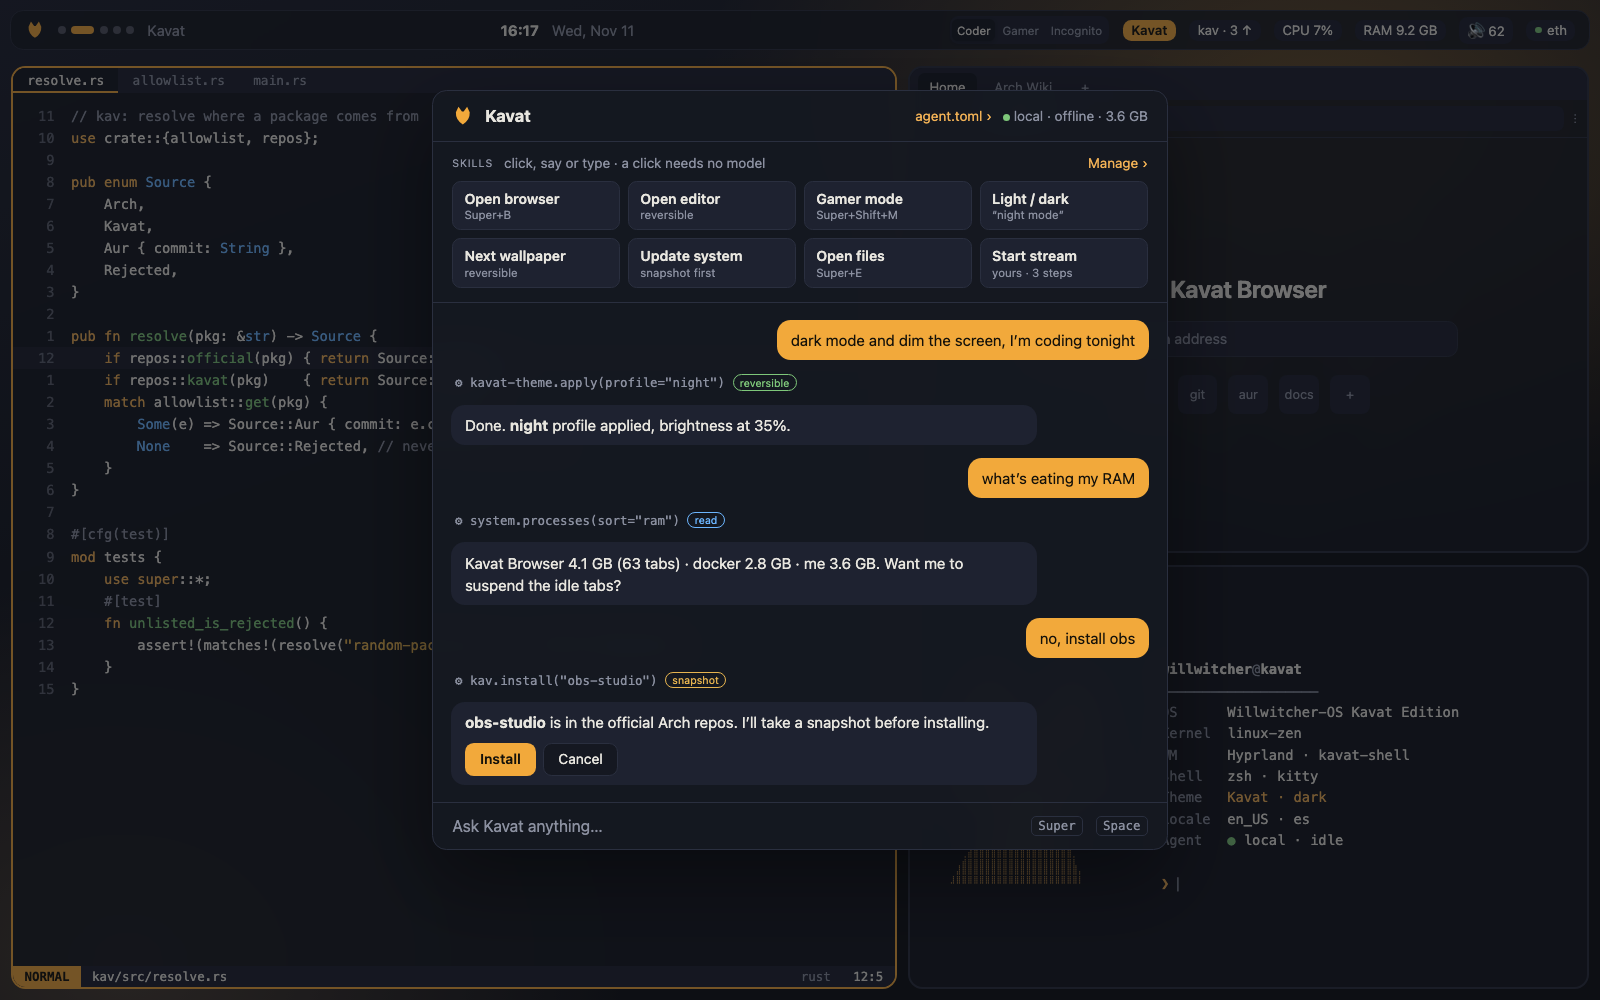
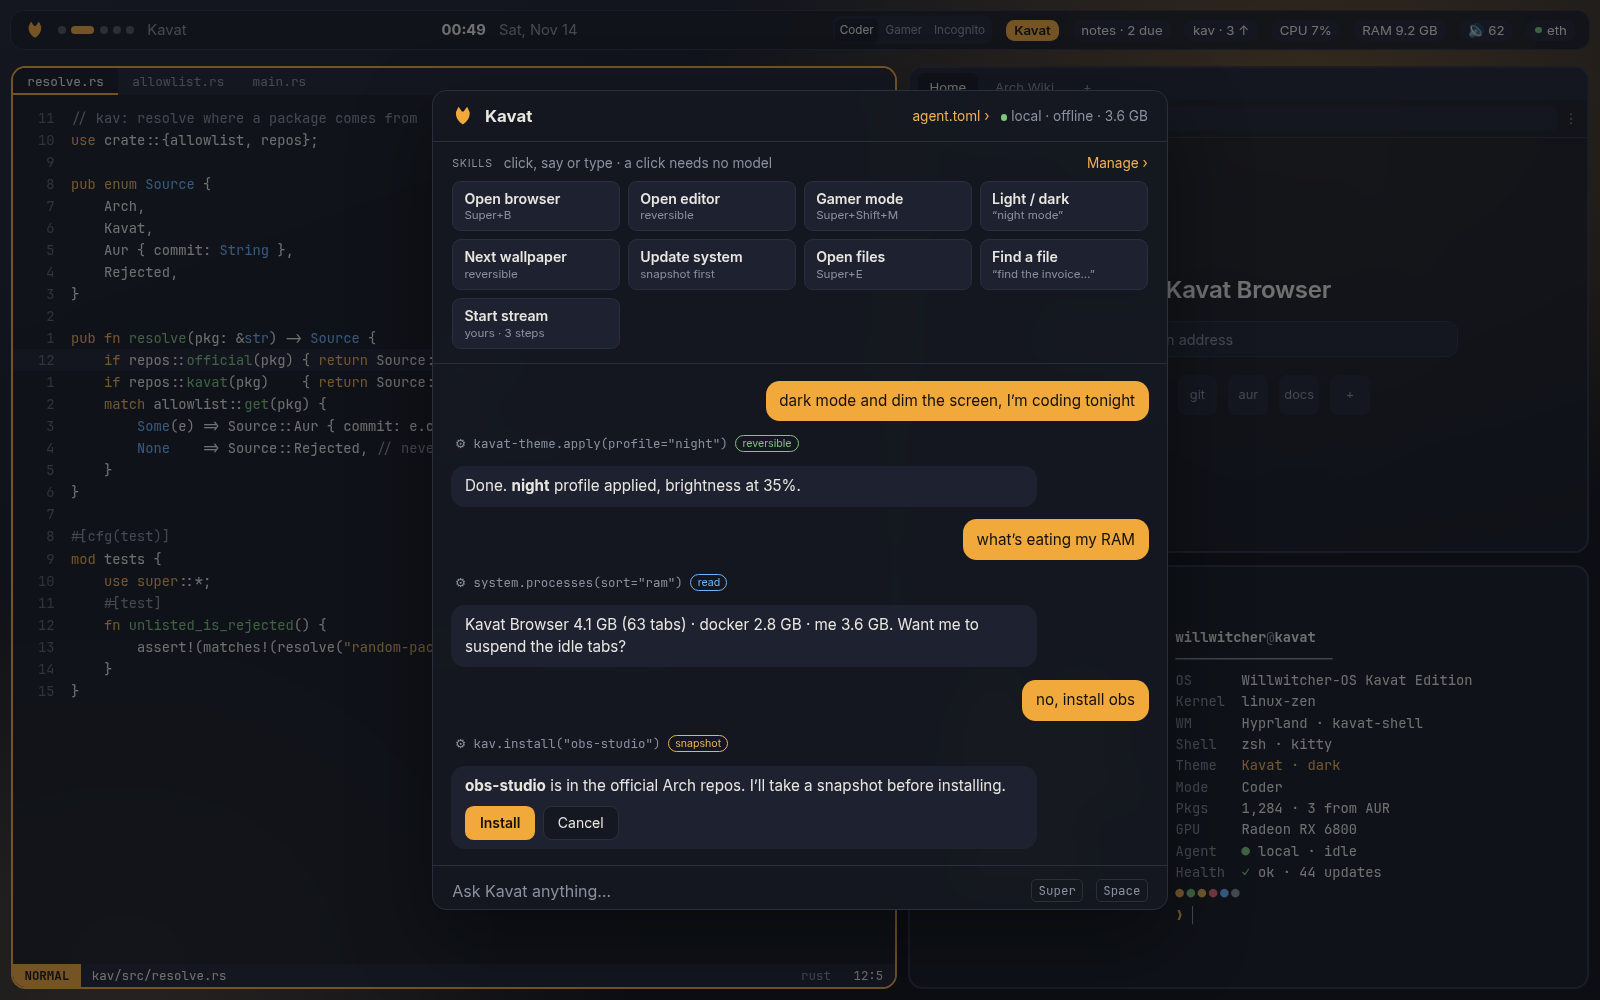
Design: Kavat finds a file when asked, drawn in the mockup
The agent's panel has a second conversation: it finds a file with files.find,
lists what matched and offers to open it, show it in Yazi or pass the list to
the search. The design names the tool and what kind of action each step is.

diff --git a/docs/mockup/index.html b/docs/mockup/index.html
@@ -99,6 +99,9 @@ button{font:inherit;color:inherit;background:none;border:0;cursor:pointer}
 .msg{max-width:84%;padding:.6em .9em;border-radius:var(--r);line-height:1.45}
 .msg.me{align-self:flex-end;background:var(--accent);color:#14110a}
 .msg.ai{background:var(--surface2)}
+.js-agfind{display:none}.screen[data-afind=true] .js-agfind{display:flex}.screen[data-afind=true] .js-agmain{display:none}
+.afiles{display:flex;flex-direction:column;gap:.25em;margin:.6em 0 .2em;font-family:var(--mono);font-size:.84em}
+.afile{display:flex;gap:1em;padding:.3em .6em;border-radius:calc(var(--r)*.5);background:var(--surface);border:.1em solid var(--border)}
 .tool{display:flex;align-items:center;gap:.6em;font-family:var(--mono);font-size:.82em;color:var(--muted);padding:.1em .3em}
 .badge{font-family:var(--ui);font-size:.85em;padding:.1em .6em;border-radius:1em;border:.1em solid currentColor}
 .btns{display:flex;gap:.5em;margin-top:.6em}
@@ -745,8 +748,19 @@ body.lit:not(.bare) .monitor{animation:lit 1.15s ease-in-out infinite alternate}
     <!-- agent -->
     <div class="ov glass" id="ov-agent">
       <div class="ag-head"><svg class="logo" viewBox="0 0 100 100" fill="currentColor"><path d="M18 34 L30 8 L46 30 H54 L70 8 L82 34 Q84 70 50 90 Q16 70 18 34Z"/></svg><b>Kavat</b><span class="sp"></span><span class="cfglink" data-cfg="agent">agent.toml ›</span><span class="muted" style="font-size:.85em"><span class="dot"></span> <span class="js-agstatus">local · offline · 3.6 GB</span></span></div>
-      <div class="skills"><div class="skh"><span class="sec" style="margin:0">Skills</span><span class="muted">click, say or type · a click needs no model</span><span class="sp"></span><span class="acc" data-act="skills" style="cursor:pointer">Manage ›</span></div><div class="skg"><button class="skill" data-act="browser"><b>Open browser</b><small>Super+B</small></button><button class="skill" data-act="editor"><b>Open editor</b><small>reversible</small></button><button class="skill" data-act="gamer"><b>Gamer mode</b><small>Super+Shift+M</small></button><button class="skill" data-act="mode"><b>Light / dark</b><small>“night mode”</small></button><button class="skill" data-act="wall"><b>Next wallpaper</b><small>reversible</small></button><button class="skill" data-act="update"><b>Update system</b><small>snapshot first</small></button><button class="skill" data-act="files"><b>Open files</b><small>Super+E</small></button><button class="skill" data-act="stream"><b>Start stream</b><small>yours · 3 steps</small></button></div></div>
-      <div class="ag-body">
+      <div class="skills"><div class="skh"><span class="sec" style="margin:0">Skills</span><span class="muted">click, say or type · a click needs no model</span><span class="sp"></span><span class="acc" data-act="skills" style="cursor:pointer">Manage ›</span></div><div class="skg"><button class="skill" data-act="browser"><b>Open browser</b><small>Super+B</small></button><button class="skill" data-act="editor"><b>Open editor</b><small>reversible</small></button><button class="skill" data-act="gamer"><b>Gamer mode</b><small>Super+Shift+M</small></button><button class="skill" data-act="mode"><b>Light / dark</b><small>“night mode”</small></button><button class="skill" data-act="wall"><b>Next wallpaper</b><small>reversible</small></button><button class="skill" data-act="update"><b>Update system</b><small>snapshot first</small></button><button class="skill" data-act="files"><b>Open files</b><small>Super+E</small></button><button class="skill" data-act="afind"><b>Find a file</b><small>“find the invoice…”</small></button><button class="skill" data-act="stream"><b>Start stream</b><small>yours · 3 steps</small></button></div></div>
+      <div class="ag-body js-agfind">
+        <div class="msg me">find the hosting invoice from March</div>
+        <div class="tool">⚙ files.find("invoice hosting", in="~", around="2026-03") <span class="badge info">read</span></div>
+        <div class="msg ai">Two files in your home folder match. The first is the March one.
+          <div class="afiles"><div class="afile"><span><b>Documents/Invoices/2026-03 invoice hosting.pdf</b></span><span class="sp"></span><span class="muted">11 Mar · 84 KB</span></div><div class="afile"><span>Documents/Invoices/2026-02 invoice hosting.pdf</span><span class="sp"></span><span class="muted">10 Feb · 83 KB</span></div></div>
+          <div class="btns"><span class="btn pri">Open the first</span><span class="btn" data-act="files">Show in Yazi</span><span class="btn" data-act="find">See all in the search</span></div></div>
+        <div class="msg me">open it, and tell me the total</div>
+        <div class="tool">⚙ files.open("~/Documents/Invoices/2026-03 invoice hosting.pdf") <span class="badge ok">reversible</span></div>
+        <div class="tool">⚙ files.read("…/2026-03 invoice hosting.pdf") <span class="badge info">read</span></div>
+        <div class="msg ai">Opened in zathura. The total is <b>14.00 EUR</b>: 12.00 for the server and 2.00 for backups.</div>
+      </div>
+      <div class="ag-body js-agmain">
         <div class="msg me">dark mode and dim the screen, I’m coding tonight</div>
         <div class="tool">⚙ kavat-theme.apply(profile="night") <span class="badge ok">reversible</span></div>
         <div class="msg ai">Done. <b>night</b> profile applied, brightness at 35%.</div>
@@ -1089,7 +1103,7 @@ const P = {
   rose:{n:'Rosé Pine',d:['#191724','#1f1d2e','#26233a','#e0def4','#908caa','#403d52'],l:['#ede3d9','#faf4ed','#f2e9e1','#575279','#797593','#dfdad9'],a:['#ebbcba','#c4a7e7','#9ccfd8','#f6c177','#eb6f92']},
   everforest:{n:'Everforest',d:['#232a2e','#2d353b','#3d484d','#d3c6aa','#9da9a0','#475258'],l:['#efebd4','#fdf6e3','#e6e2cc','#5c6a72','#829181','#d5d0b8'],a:['#a7c080','#7fbbb3','#dbbc7f','#e69875','#d699b6']},
 };
-const S = {ico:'colour',istep:'',inet:true,ttab:'proc',notices:false,calc:false,dlay:'pv',dsel:0,voice:'auto',clip:false,cap:false,rem:false,copy:false,gsel:'main',ps:'logo',cfg:'',pick:false,fsel:'img',wall:'theme',bare:false,ktab:'dash',fnd:'home',spage:'windows',sys:'coder',scene:'desk',pal:'kavat',mode:'dark',acc:0,rad:.9,gap:.7,blur:true,oled:false};
+const S = {ico:'colour',istep:'',inet:true,ttab:'proc',notices:false,calc:false,dlay:'pv',dsel:0,voice:'auto',clip:false,cap:false,rem:false,copy:false,gsel:'main',ps:'logo',cfg:'',pick:false,fsel:'img',wall:'theme',bare:false,ktab:'dash',fnd:'home',afind:false,spage:'windows',sys:'coder',scene:'desk',pal:'kavat',mode:'dark',acc:0,rad:.9,gap:.7,blur:true,oled:false};
 location.hash.slice(1).split('&').forEach(kv=>{const [k,v]=kv.split('=');if(k in S)S[k]=isNaN(v)?(v==='true'?true:v==='false'?false:v):+v});
 
 const $=(s,r=document)=>r.querySelector(s), $$=(s,r=document)=>[...r.querySelectorAll(s)];
@@ -1166,7 +1180,7 @@ function apply(){
   root.dataset.mode=m;
 
   const ov={agent:'agent',themes:'themes',kav:'kav',top:'top',auth:'auth',browser:'browser',settings:'settings',editor:'editor',claude:'editor',files:'files',find:'find',notes:'notes',note:'editor',albums:'browser',launcher:'launcher'}[S.scene]||'';
-  screen_.dataset.ov=ov;
+  screen_.dataset.ov=ov;screen_.dataset.afind=S.afind;
   const sc=['login','install','grub','boot'].includes(S.scene)?S.scene:'desk';
   $$('.scene').forEach(s=>s.classList.toggle('on',s.id===sc));
   $$('#tabs button').forEach(b=>b.classList.toggle('on',b.dataset.scene===S.scene));
@@ -1254,6 +1268,8 @@ document.addEventListener('click',e=>{
     else if(a==='cap'){S.scene='desk';S.cap=true;S.rem=true}
     else if(a==='capoff'||a==='clipoff'){}
     else if(a==='clip'){S.scene='browser';S.clip=true}
+    else if(a==='afind'){S.scene='agent';S.afind=true}
+    else if(a==='find')S.scene='find';
     else if(a==='grub')S.scene='grub';
     else if(a==='plymouth'||a==='boot')S.scene='boot';
     else if(a==='gowall'){S.scene='settings';S.spage='wallpaper'}
@@ -1276,7 +1292,7 @@ document.addEventListener('click',e=>{
   else if(t.dataset.fnd)S.fnd=t.dataset.fnd;
   else if(t.dataset.spage)S.spage=t.dataset.spage;
   else if(t.dataset.sys)S.sys=t.dataset.sys;
-  else if(t.dataset.scene){S.scene=t.dataset.scene;S.pick=false;S.cfg='';S.copy=false;S.cap=false;S.rem=false;S.clip=false}
+  else if(t.dataset.scene){S.scene=t.dataset.scene;S.afind=false;S.pick=false;S.cfg='';S.copy=false;S.cap=false;S.rem=false;S.clip=false}
   else if(t.dataset.mode)S.mode=t.dataset.mode;
   else if(t.dataset.pal){S.pal=t.dataset.pal;S.acc=0}
   else if(t.dataset.acc)S.acc=+t.dataset.acc;

diff --git a/docs/DESIGN.md b/docs/DESIGN.md
@@ -496,7 +496,7 @@ What files say is not indexed, only their names.
 - **The terminal.** `kavat-find` opens the search full screen: type to filter, a preview of the file on the right, `Enter` opens it, `Ctrl+O` opens its folder in Yazi and `Ctrl+Y` copies its path. `Ctrl+F` goes round the three sources: your files, the whole disk and text inside files. A result of a text search opens in Neovim at that line.
 - **zsh.** `Tab` shows the completions in the same picker instead of zsh's own menu, with a preview: files, folders, options, processes. This is the `fzf-tab` plugin, packaged in `[kavat]` if Arch's repositories do not have it. `Ctrl+R` searches the history, `Ctrl+T` pastes a file's path into the command, `Alt+C` jumps to a folder and `Ctrl+G` searches text inside files.
 - **Neovim.** `fzf-lua` is the one picker: files, text, buffers, recent files, help. It takes the place of Telescope, which did the same more slowly. `<leader>ff`, `fg`, `fb` and `fr` stay as they are.
-- **The desktop and Kavat.** `Super+Shift+F` opens the search as a floating window from anywhere, and the palette gets a files mode. In phase 4 Kavat gets a `find_files` tool that asks the same engine, so a file can be asked for by voice.
+- **The desktop and Kavat.** `Super+Shift+F` opens the search as a floating window from anywhere, and the palette gets a files mode. In phase 4 Kavat gets a `files.find` tool that asks the same engine, so a file can be asked for by typing or by voice: it answers with the files it found and offers to open one, show it in Yazi or hand the whole list to the search. Finding is a read; opening a file is a reversible action, like the rest of its tools.
 
 ## Notes
 
